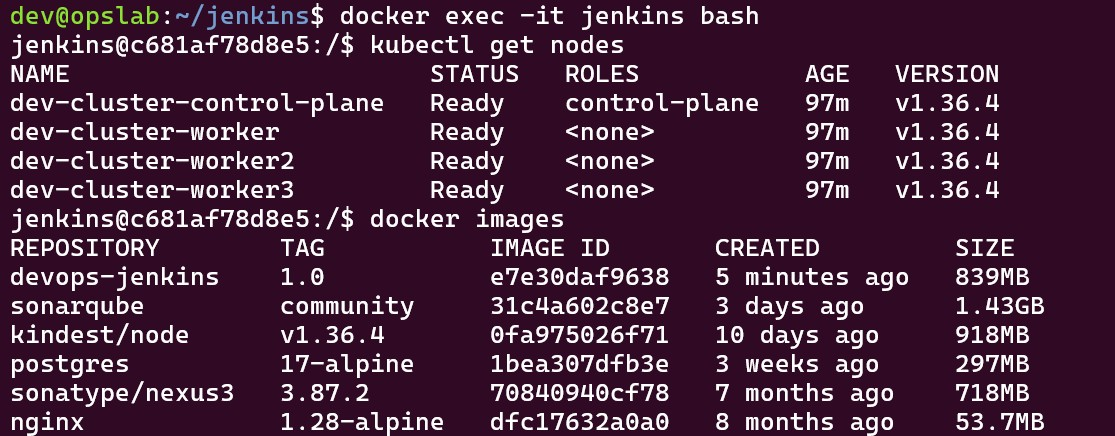
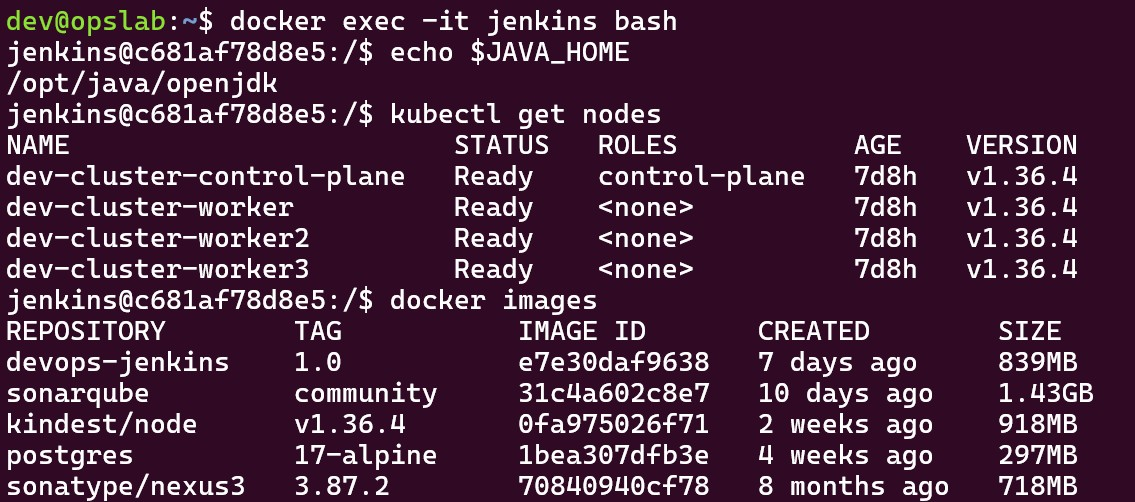
updated config files

Changed region(s): [[0.0, 0.0, 0.9758, 1.0]]

diff --git a/docs/02-jenkins-configuration.md b/docs/02-jenkins-configuration.md
@@ -7,11 +7,11 @@ Jenkin's base installation does not include support for some critical DevOps too
 
 | Plugin Category | Plugin Name | Purpose |
 | :--- | :--- | :--- |
-| **Pipeline & UI** | `Pipeline` | Core Declarative & Scripted pipeline engine |
+| **Pipeline & UI** | `Pipeline Stage View` | Visual representation of pipeline stages and execution status |
 | **Container & K8s** | `Docker Pipeline`, `Kubernetes` | Ephemeral container agents & Docker build stages |
-| **SCM & Cloud** | `GitHub Integration`, `Pipeline: AWS Steps` | Git webhooks & AWS credential/CLI operations |
-| **Build & Config** | `Pipeline Maven Integration`, `Config File Provider` | Automated Maven builds & global `settings.xml` injection |
-| **Security & Quality** | `Credentials Binding`, `SonarQube Scanner` | Secure secret injection & static code analysis / quality gates |
+| **SCM & Cloud** | `GitHub Integration`, `Pipeline: AWS Steps`, `AWS Credentials` | Git webhooks, AWS credentials management (IAM), and AWS CLI pipeline steps |
+| **Build & Config** | `Pipeline Maven Integration`, `Config File Provider`, `Eclipse Temurin Installer` | Automated Maven builds, global `settings.xml` management & dynamic JDK (JDK 8/17) auto-installation |
+| **Security & Quality** | `SonarQube Scanner`, `OWASP Dependency-Check` | Static code analysis, quality gates & dependency vulnerability scanning |
 
 
 ### 🔌 2. Installing Plugins

diff --git a/docs/00-tools-versions.md b/docs/00-tools-versions.md
@@ -17,7 +17,7 @@
 | **Node.js Runtime** | Node.js | `v22.23.1 LTS` |
 | **Package Managers** | nvm / npm | `v0.40.3` / `v10.9.8` |
 | | pip | `v24.0` |
-| **Build Tool** | Apache Maven | `v3.8.7` |
+| **Build Tool** | Apache Maven | `v3.9.9` |
 
 
 ### 2. Containers & Local Kubernetes

diff --git a/config/jenkins/readme.md b/config/jenkins/readme.md
@@ -117,6 +117,9 @@ docker ps -a
 
 # 6. Verify Docker images
 docker images
+
+# Identify the Java path configured in Jenkins
+echo $JAVA_HOME
 ```
   ![jenkins-access](/assets/jenkins-verification.jpg)
 
